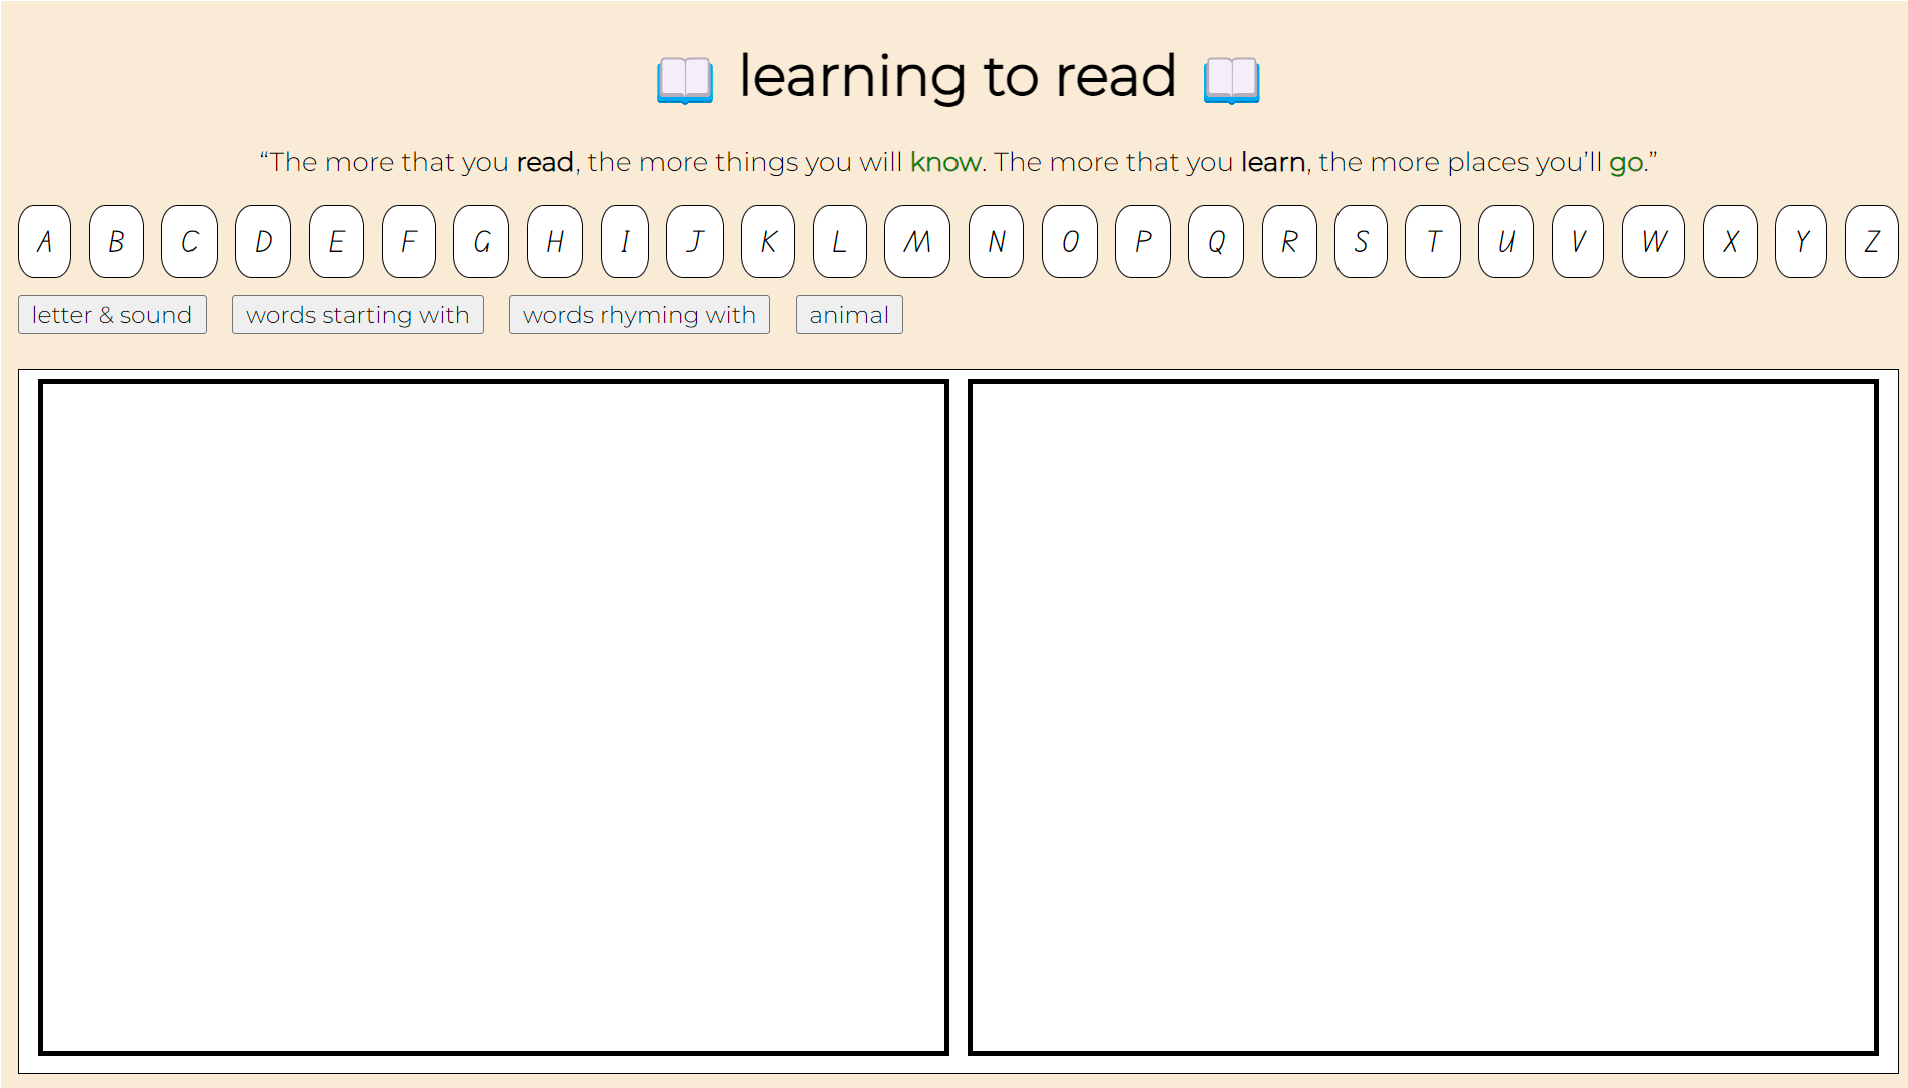
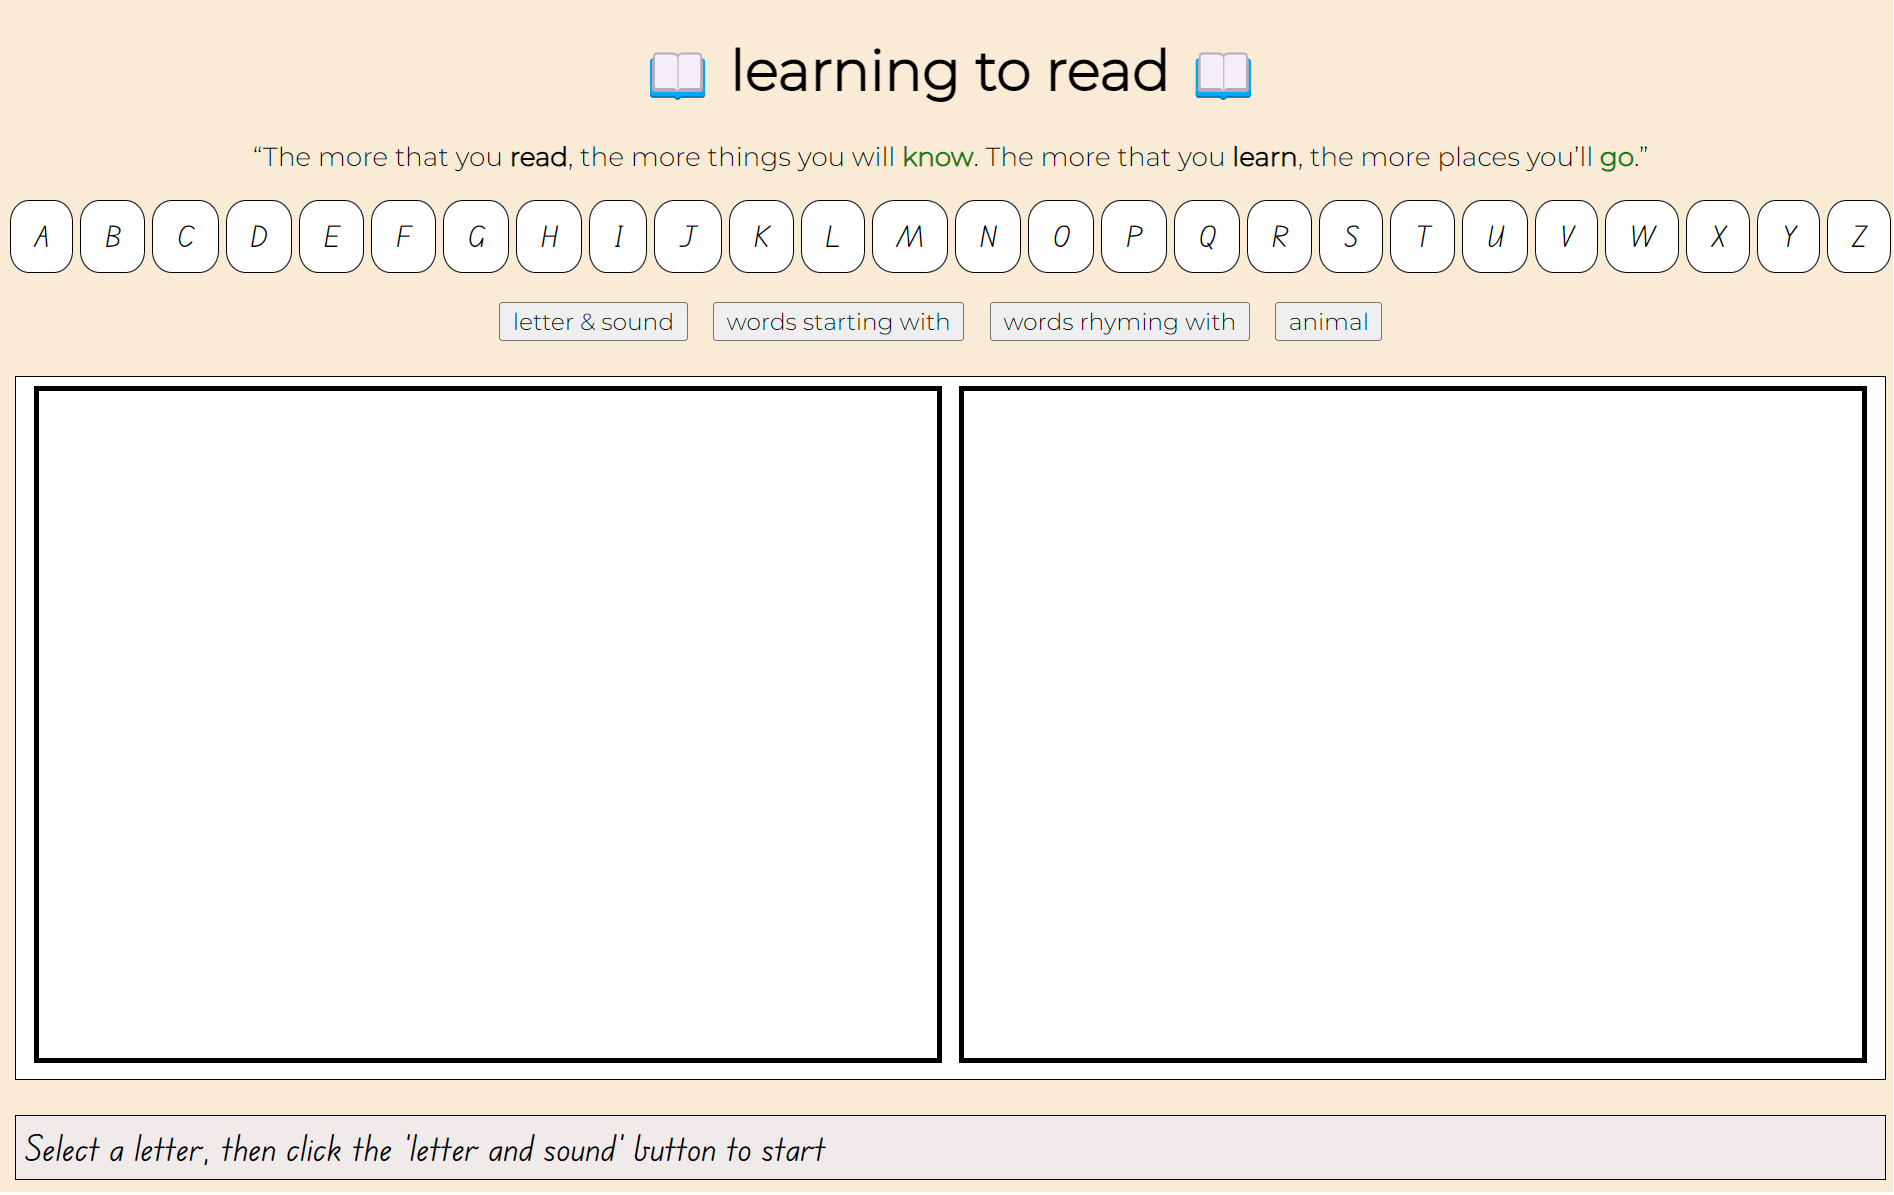
added bonus animation on completion

Changed region(s): [[0.0, 0.0, 1.0, 1.0], [0.3427, 0.0312, 0.6853, 0.0938]]

diff --git a/README.md b/README.md
@@ -10,22 +10,10 @@ This app is designed to assist parents to teach pre-kinder children to read (and
 2. identifying and saying words that start with that letter, emphasizing the sound of the first letter
 3. identifying words that rhyme with a particular word
 4. identifying an animal whose name starts with the chosen letter
-5. recognise and 'play with' the individual sounds in spoken words (phonemic awareness) . 
+5. recognise the individual sounds in spoken words (phonemic awareness) . 
 
 **How it works:** 
-The app uses AJAX requests to obtain information about a clicked letter, including words that start with that letter and rhyming words. and populate the UI accordingly. The app uses the Web Speech API to say any letter or word that is clicked, for an interactive learning experience. 
-
-In practice: 
-1. The user (the child's parent) selects a letter
-2. Parent to say the sound of the letter aloud and child to repeat. Recite the main word shown on the screen for that letter. Child can click on any and the program will say the word. Encourage child to repeat words and sounds
-3. Parent: "what are some words that start with (letter sound)? 
-4. Click 'words starting with' button to move to next page; 
-5. Parent and child say those words aloud, putting emphasis on the sound of the first letter
-6. Parent: "what are some words that rhyme with (the main word)? Click 'words rhyming with' button to move to next page; 
-7. Parent and child say those words aloud, putting emphasis on the sound of the words and how they rhyme. Parent navigates to animal page. 
-8. Parent: this animals name starts with (letter sound), which animal is it? Parent and child say name of animal, putting emphasis on the sound of the first letter
-9. revisit any sections that the child did not understand or had trouble saying
-10. repeat above steps for another letter (you can see which letter have already been viewed)
+The app uses AJAX requests to obtain information about a clicked letter - including words that start with that letter, and rhyming words - to populate the UI accordingly. The app uses the Web Speech API to say any letter or word that is clicked. The app contains instructions for use in the grey instructions box at the bottom of the page.
 
 **screenshots:** 
 ![main page](images/main.png)
@@ -37,17 +25,17 @@ In practice:
 - when deployed as a live site, the 'voice' of the speech API changes depending on the device. I tried to set the voice to 'UK female' to get an Australian-sounding accent. I removed setting the voice and instead let it default to 'US male' to ensure it says words correctly
 - I struggled with overthinking the possibilities of what the app could do
 - I was unable to find a way to make the app say the sounds of letters
-- I was unable to work out how to clean up the code for the 
+- Unsure how to refactor the code for the nav button event listeners as it is quite long
 
 **What I learned**
-- I needed to have more definite plans for the app before creating it. This will keep me on track and help me not get bogged down in the various directions I could take the app in 
-- API results can be very inconsistent and sometimes the results data needs to be filtered. Some of the images and words were inappropriate
+- I needed to have more definite plans for the app, to know exactly what it should do, before creating it. This will keep me on track and help me not get bogged down in the various directions I could take the app in 
+- API results can be very inconsistent and sometimes the results data needs to be filtered. 
 
 **Technology that we haven't covered in class:** 
-The Web Speech API - I used this inbuilt browser API to 'say' the words or letters that were clicked. I was limited by the voices changing across devices, which meant that I had to use the default american voice rather than a more relevant voice for Australian users. 
+The Web Speech API - I used this inbuilt browser API to 'say' the words or letters that were clicked. 
 
 **future features** 
 - find a way for the app to say the sounds of the letters, not just the name of the letter
 - use speech recognition to check whether the child says the sound of the letter or says the word correctly 
-- make this into an actual game, to make it more engaging, with cartoon characters, letters that move around the screen, allowing the child to interactively experiment with the sounds of letter, perhaps allowing them to join letters or sounds together to form new sounds and words. 
-- research the reading teaching methods further, to be more clear about exactly how the app should be used by parents to teach children. 
+- make this into an actual game, to make it more engaging, with cartoon characters, letters that move around the screen, allowing the child to interactively experiment with the sounds of letter, perhaps allowing them to join letters or sounds together to form new sounds and words. Make it self-guided by the child rather than directed by the parent 
+- research the reading teaching methods further, to be more clear about exactly how the app should be used by parents to teach children, to aid learning
